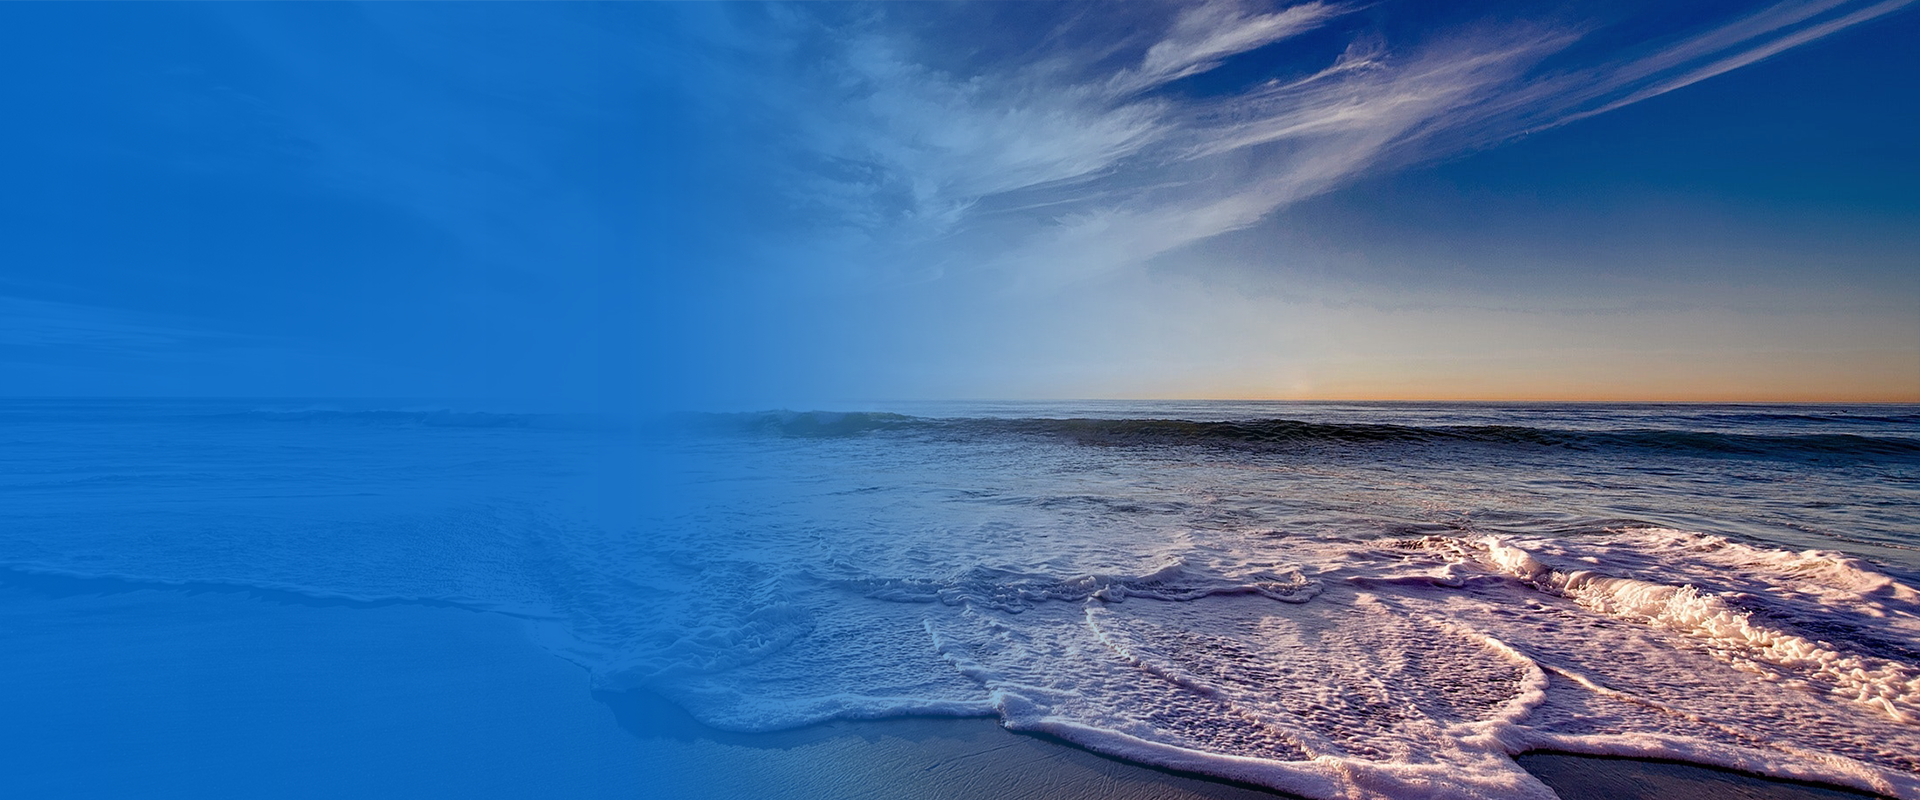
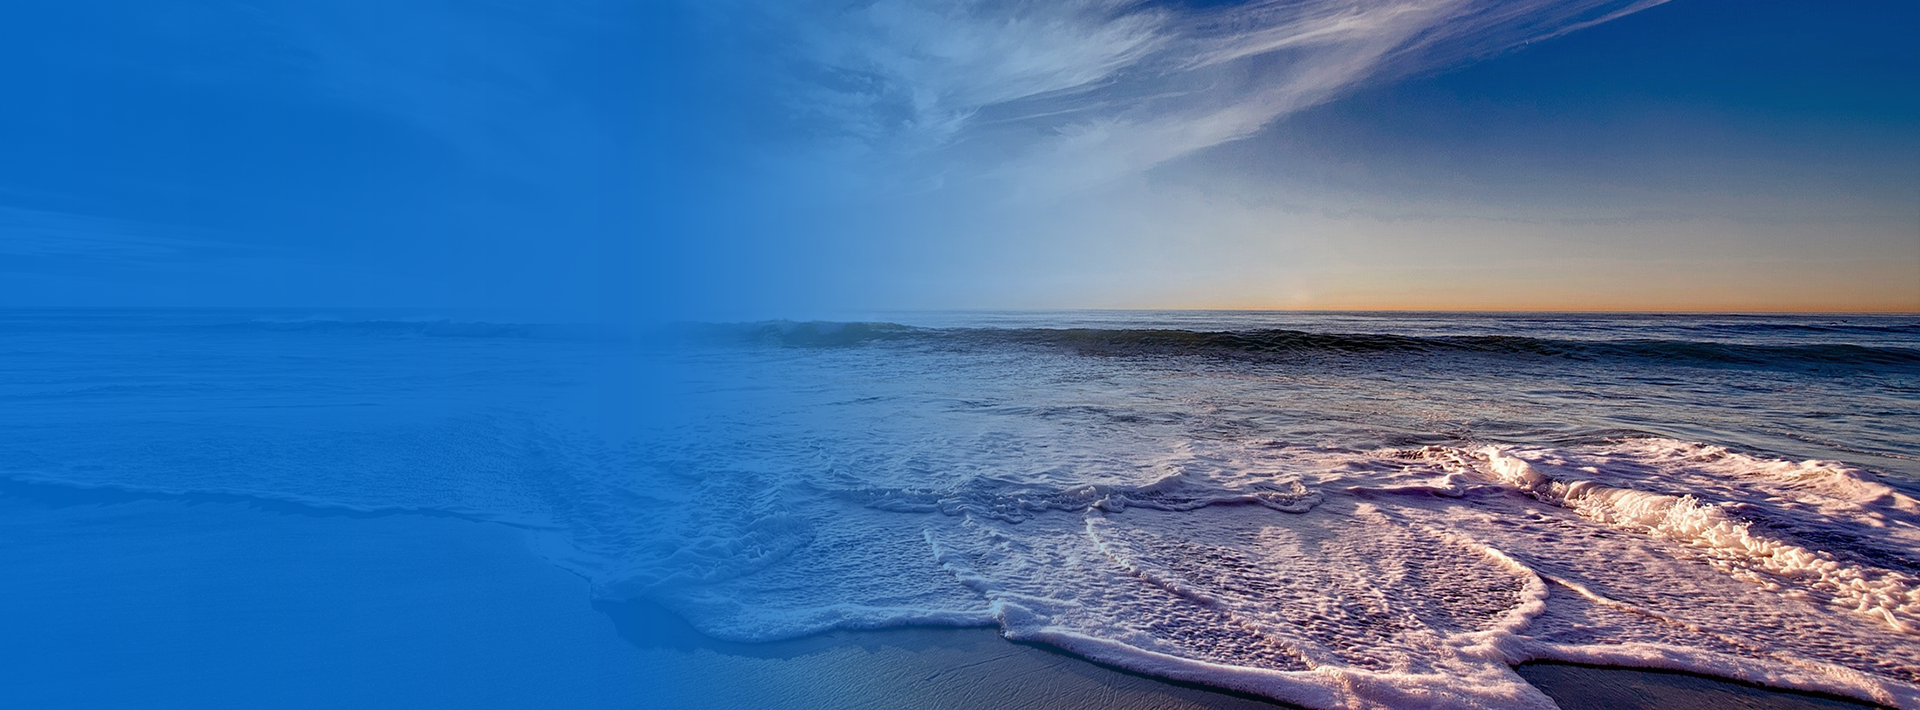
'image' component deleted, added 'background' component

diff --git a/styles.css b/styles.css
@@ -145,13 +145,11 @@
   color: #0a2f73;
 }
 
-.image--sea-image {
-  width: 100%;
-  height: 800px;
-  -o-object-fit: cover;
-     object-fit: cover;
-  -o-object-position: 0%;
-     object-position: 0%;
+.background--sea-image {
+  height: 710px;
+  background-image: url("../../src/home-image.png");
+  background-size: cover;
+  background-position: 0% 100%;
 }
 
 body, html {

diff --git a/views/index.html b/views/index.html
@@ -29,8 +29,7 @@
       </div>
     </a>
   </div>
-  <div class="sea-image">
-    <img src="../src/home-image.png" alt="" class="image--sea-image">
+  <div class="background--sea-image">
 
   </div>
 

diff --git a/components/background/background.sass b/components/background/background.sass
@@ -1,0 +1,6 @@
+.background
+  &--sea-image
+    height: 710px
+    background-image: url('../../src/home-image.png');
+    background-size: cover
+    background-position: 0% 100%

diff --git a/components/background/background.css b/components/background/background.css
@@ -1,0 +1,6 @@
+.background--sea-image {
+  height: 710px;
+  background-image: url("../../src/home-image.png");
+  background-size: cover;
+  background-position: 0% 100%;
+}

diff --git a/styles.sass b/styles.sass
@@ -1,5 +1,5 @@
 @import 'components/nav/nav'
-@import 'components/image/image'
+@import 'components/background/background'
 
 body, html
   position: relative
